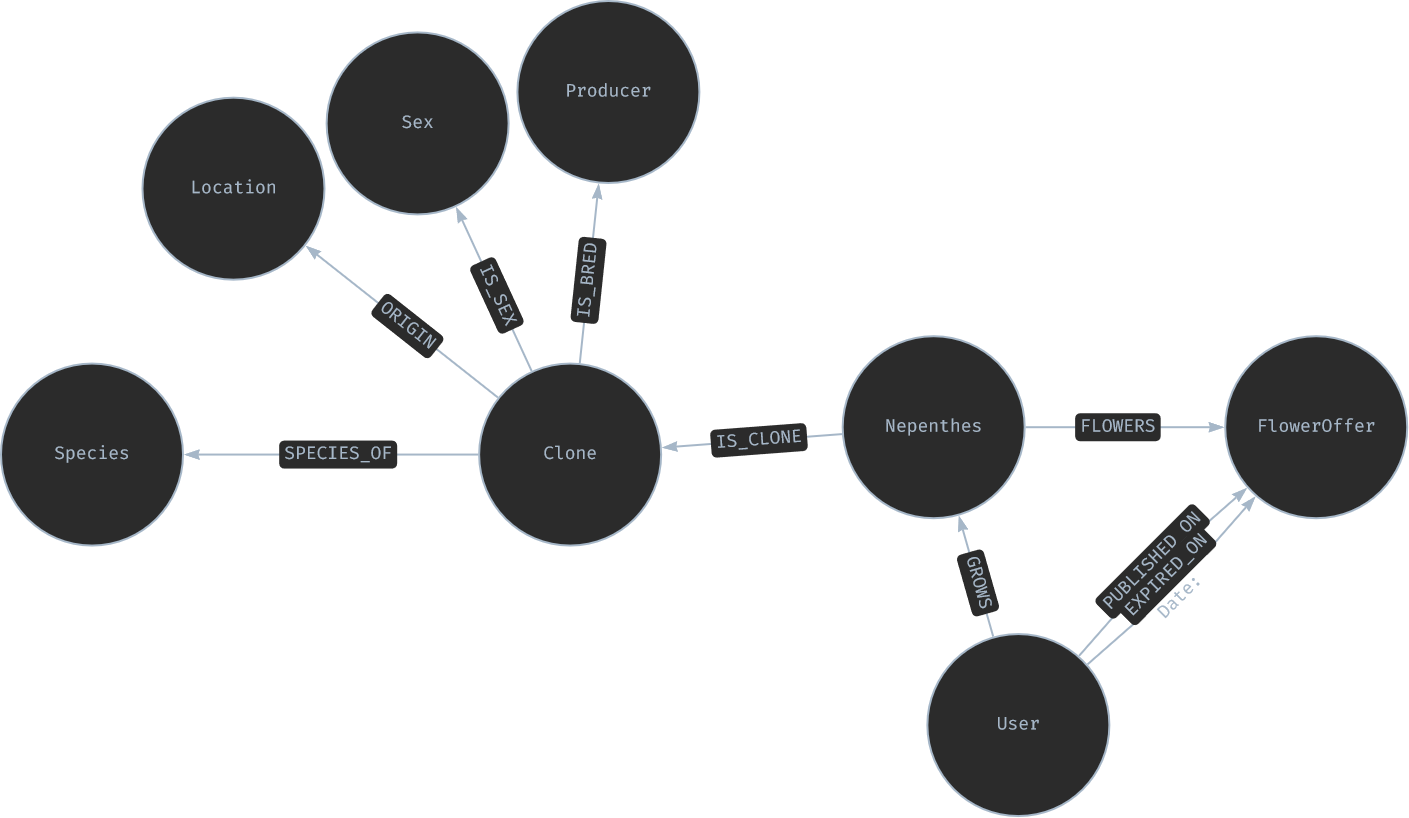
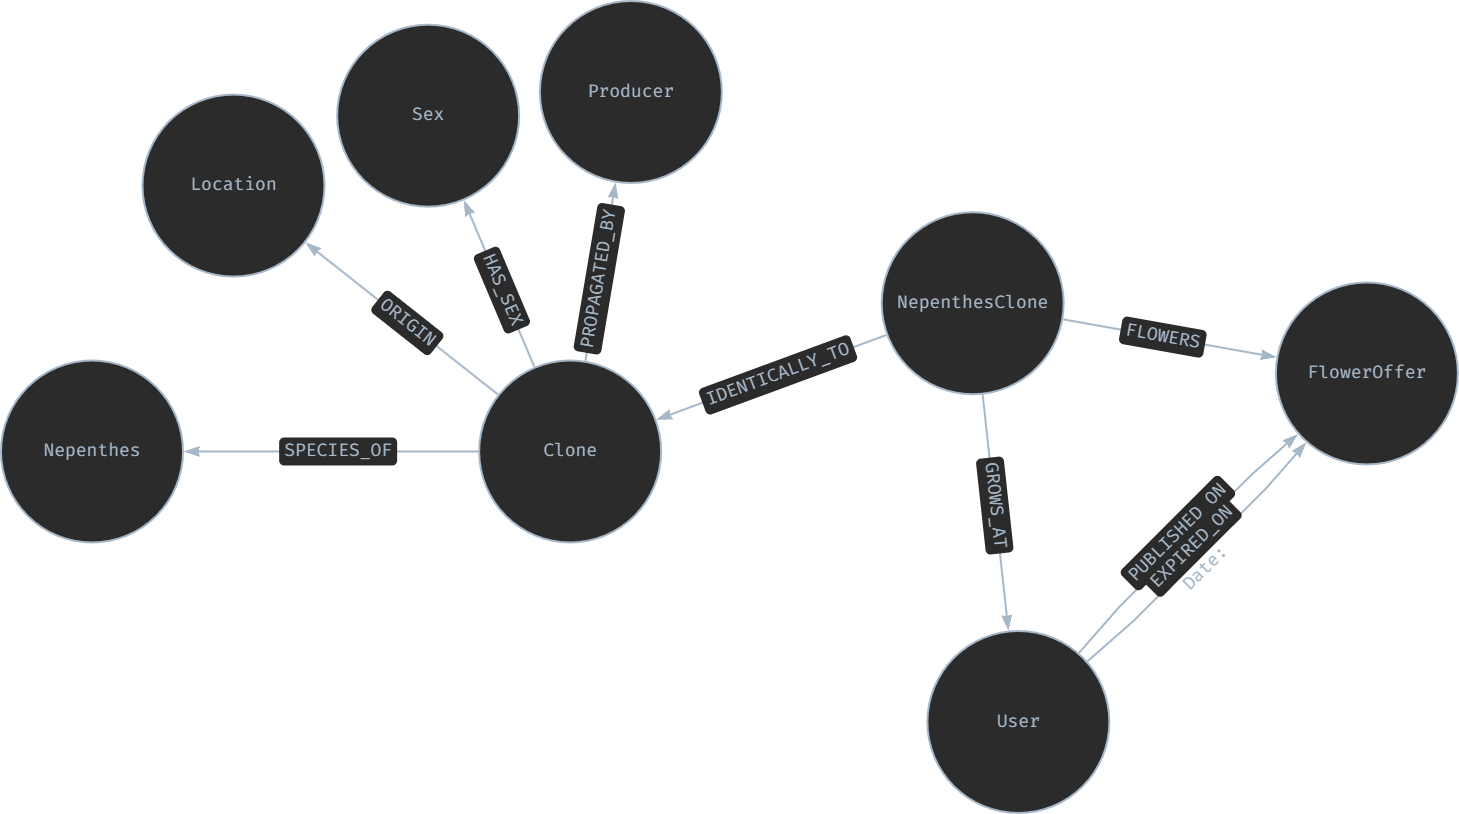
update: Datamodel chore: update README.MD

diff --git a/README.md b/README.md
@@ -33,34 +33,39 @@ For a rough overview of the different pages, see [Wireframes](https://app.moqups
 The data model to be developed is still in the modeling phase, but the following data model is currently being worked on
 ![First Draft](https://github.com/Lavicola/Nepflow/blob/master/DatamodelOverview.png)
 
-### Species, Clone, User and Nepenthes
-- A species is a specific Nepenthes such as "villosa".
-- A species has a Clone which can either be "seedgrown", but also clones which are propagted in an a Laboratory(Producer) with a specific code (e.g. BE-3225)
-- A user grows specific Nepenthes, which can either represent a specific clone (once again either "seedgrown" or "propagted")
-&rarr; A missing "Producer" Edge means the Clone must be Seedgrown  
-&rarr; Through the "Species" node it is later possible to find out how many different, unique clones, but also seedgrown specimens exist for them  
-&rarr; A User grows "Nepenthes". Via traversing the "Clone" and the "Species" can be found. This prevents super Nodes in Clones and also enables a clearer Datamodel.
+### Nepenthes, Clone, User and NepenthesClone
+- A Nepenthes is a specific Nepenthes such as "villosa".
+- A Nepenthes has a Clone which can either be "seedgrown", but also clones which are propagted in an a Laboratory(Producer) with a specific code (e.g. BE-3225)
+- A user grows specific Nepenthes, which represent a specific clone (once again either "seedgrown" or "propagted") 
+
+&rarr; For more Information of the exact/different possible lables see Clone Class Diagram [Clone Class Diagram](#class-diagram-clones)
+&rarr; A User cultivate cultivates specific Instances of a Clone (the so called "NepenthesClone"). Since a NepenthesClone references the Clone back we are able to reach every node but at the same time reduce super Nodes Formations since every instance of a specific Clone can be seperatly referenced in a FlowerOffer
+
 
 ### FlowerOffer
-Since the goal is to combine a PollenExchange with a familytree for Nepenthes a User must be able to "publish" a new "FlowerOffer". This FlowerOffer contains relationships to the User and the flowering Nepenthes he offers.  
-&rarr; Using the "flowers" relationship to a "FlowerOffer", the Question "how often did a specific Nepenthes bloom" answered, but also more general Questions.
+Since the goal is to combine a PollenExchange with a familytree for Nepenthes a User must be able to "publish" a new "FlowerOffer". This FlowerOffer contains relationships to the User and the flowering Nepenthes he offers.
+
+&rarr; Using the "Flowers" relationship to a "FlowerOffer", the Question "how often did a specific Nepenthes bloom" answered, but also more general Questions.
 
 
 ### Datamodel(Species)
-While the first Datamodel gives an Overview, it is missing the functinality for the PollenExchange. Therefore the following Datamodel shows an Example on how the Datamodel looks like after a Trade(PollenExchange), if two
+While the first Datamodel gives an Overview, it is missing the functionality for the PollenExchange. Therefore the following Datamodel shows an Example on how the Datamodel looks like after a Trade(PollenExchange), if two
 Users have the same Species.  
 ![First Draft](https://github.com/Lavicola/Nepflow/blob/master/DatamodelSpecies%20.png)
 The Datamodel shows two different Clones of the same species. A User with an open FlowerOffer is able to initiate a Trade where he offers a specific FlowerOffer. For the start relationship the other Party has a "pending". Using this Information the User can then either "accept" or "refuse" the trade. If the Edge is "accepted" both Parties can confirm a new "Grex" once they received their seeds.
+
 &rarr; Using this Datamodel it is possible to prevent User creating duplicate Trades  
 &rarr; Using the "initiate" edge we can track the amount of Trades a specific User initiated.  
-&rarr; Using the "results_in" edge we can detect how many Trade actually resulted in a new Grex, which means we are able to track the amount of failures e.g. User did not send seed back or seeds were faulty.  
+&rarr; Using the "results_in" edge we can detect how many Trade actually resulted in a new Grex, which means we are able to track the success Rate.  
 &rarr; Using this Datamodel the offspring results in a new clone Node with a relation to the Species
 
-### Datamodel(Hybrid)
-In case of two different Species as Parents a Trade(PollenExchange) would almost look like the Species Datamodel with some minor changes.  
+### Datamodel(Multihybrid)
+Because all clones share many characteristics, the hybrid and multi-hybrid play a special role. 
+For both, it is sometimes not possible to know the parents. For hybrids without knowledge of the parents, an "UNKOWN" clone can theoretically be introduced for each Nepenthes. These can be referenced and thus enable hybrids where one or none parent is known.
+For multihybrids, however, this is too costly/time-consuming due to the many combinations and ultimately the number of hybrids contained in the multihybrid (e.g. [(lowii x veitchii) x boschiana] x [(veitchii x maxima) x veitchii] x [(spectabilis x (lowii x ventricosa)]).
+Therefore multihybrids must be createable without any knowledge. 
 ![First Draft](https://github.com/Lavicola/Nepflow/blob/master/DatamodelHybrid.png)
-&rarr; The Grex contains "Hybrid" Nodes. These will be like the "Clones" Nodes, except that they don´t have a location.
-&rarr; The "Hybrid" Node might get an explicit realtion to the two users who created this Grex. Otherwise implicit traversing from father/mother -- Nepenthes -- User
+
 
 
 ### Class Diagram Clones
